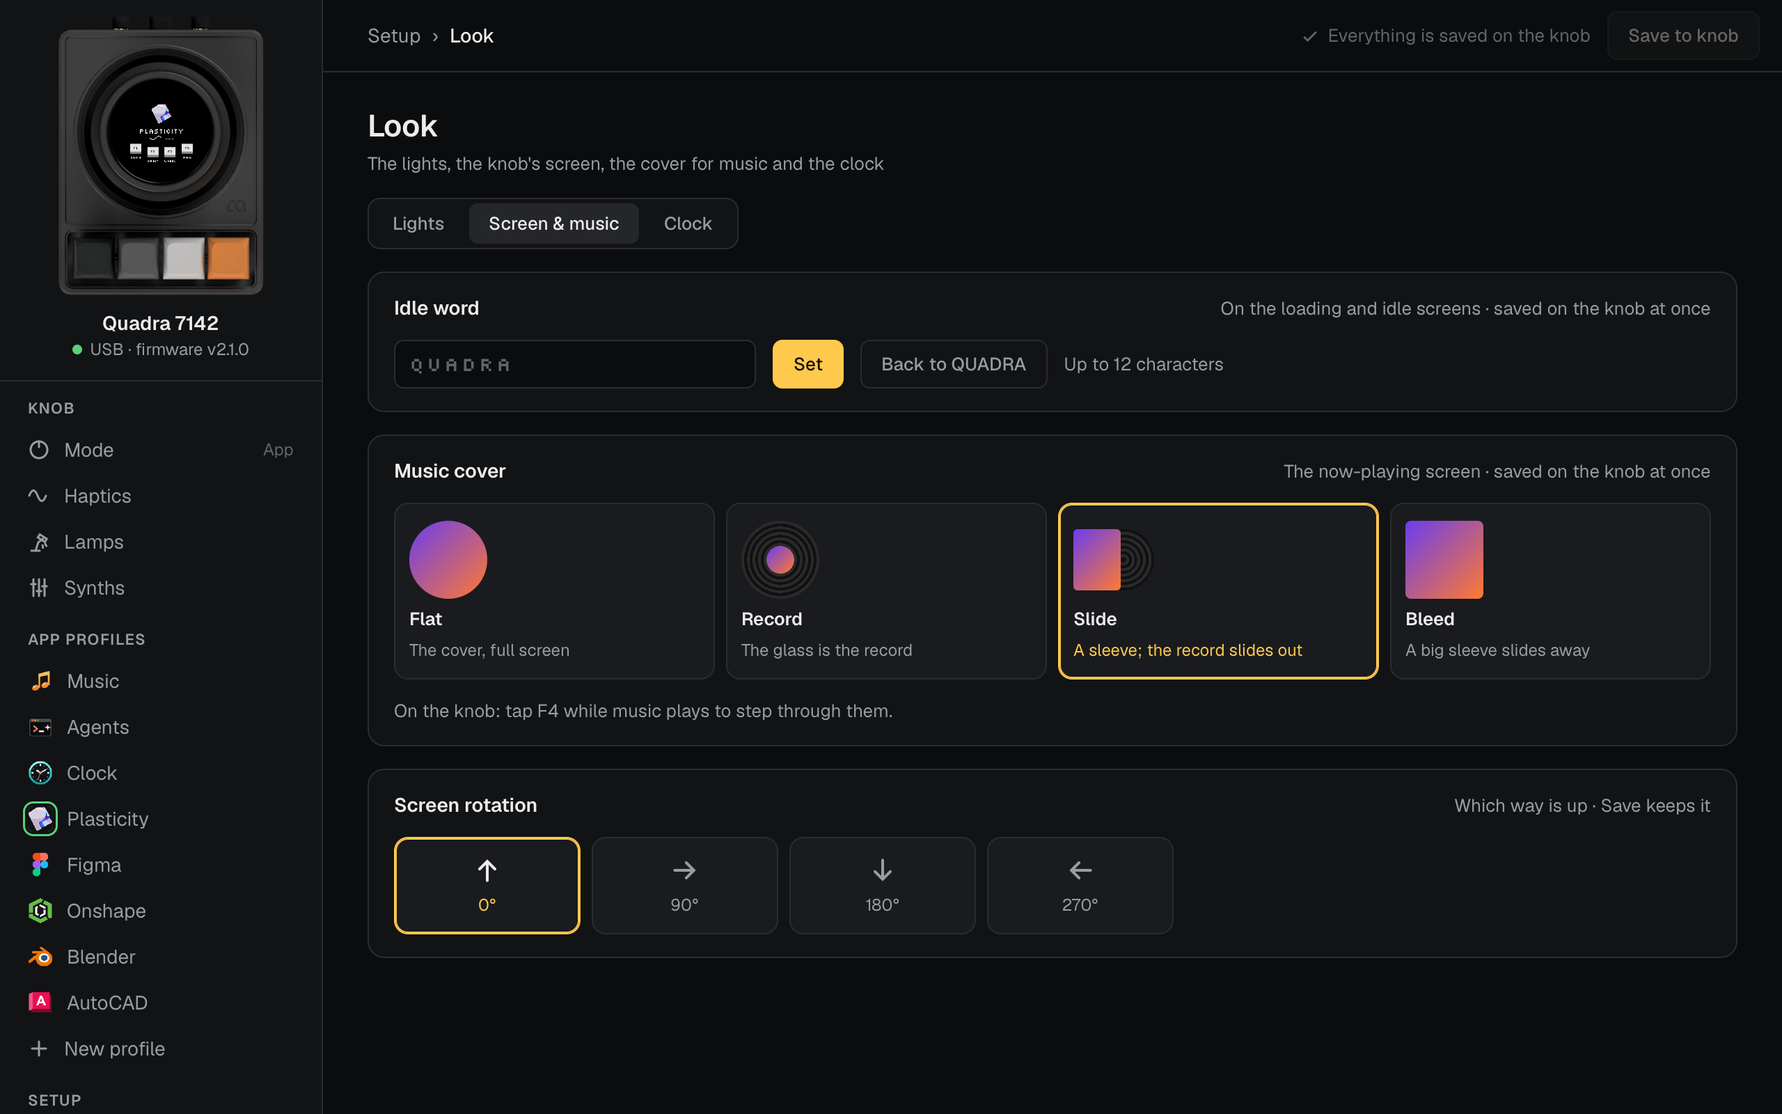
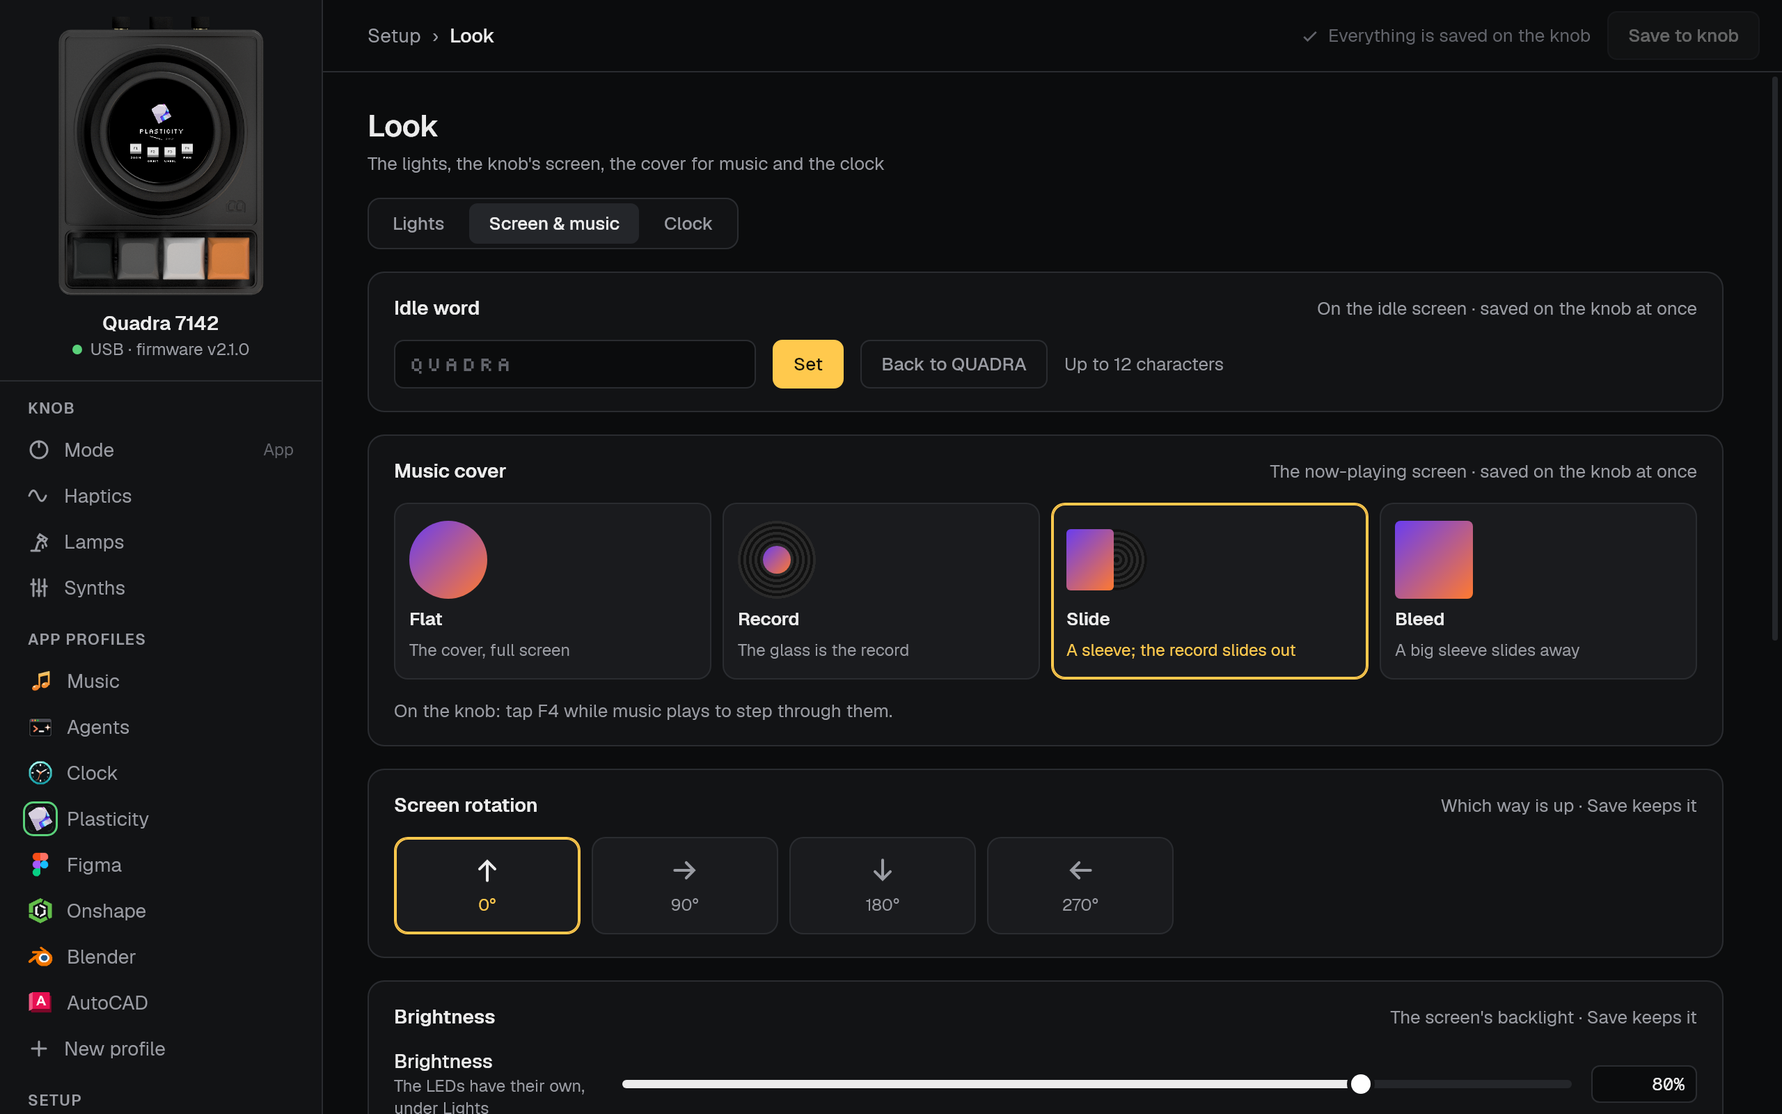
Docs: the screensaver and sleep hours
The README's settings table, idle screen and LED sections, a Sleep hours
section with how the knob falls back without the local time, and quadra.py
idle; the user guide's Look page; FIRMWARE.md's display section (and the
stale claim that the first key press only wakes the screen goes), the LED
levels, extensions v13 and the NVS blob. New pictures of DISPLAY, SLEEP and
the clock screensaver replace the old rotation screen, and the companion's
screenshots.

diff --git a/README.md b/README.md
@@ -140,7 +140,10 @@ shows, at 2× scale.
   in any orientation.
 - **Idle screen.** Arcade attract mode: the active app's icon (or the QUADRA wordmark, or a
   word of your own) jumps around or explodes onto the screen with squash and stretch, dust,
-  debris and sparkles, in that app's colours. A routine is picked at random each time.
+  debris and sparkles, in that app's colours. A routine is picked at random each time. Or the
+  screensaver shows the clock, what's playing, or nothing, after a delay you choose.
+- **Sleep hours.** At night the screen and every LED go dark a little after the screensaver
+  starts; a turn or a key wakes the knob, at full brightness or a dim night level.
 - **LEDs in the app's colours.** A 60-LED ring around the knob and two LEDs under each key:
   a dim gradient at rest, a spot that follows the knob and pulses on every detent, the
   command wheel's segments, a flash at an end stop. The colour, effect and brightness can
@@ -241,7 +244,8 @@ opens the menu** instead. In HOME mode the knob and F1–F3 drive the lamps (see
   <img src="NanoDepsidf/docs/images/hid-home.png" width="180" alt="PROFILES carousel on HOME">
   <img src="NanoDepsidf/docs/images/hid-mouse.png" width="180" alt="PROFILES on MOUSE: the mode's haptic profile">
   <img src="NanoDepsidf/docs/images/profile-figma.png" width="180" alt="App profile carousel on FIGMA">
-  <img src="NanoDepsidf/docs/images/display-rotation.png" width="180" alt="Display rotation at 90 degrees">
+  <img src="NanoDepsidf/docs/images/display.png" width="180" alt="DISPLAY: rotation, brightness, the screensaver (CLOCK) and its delay, unsaved">
+  <img src="NanoDepsidf/docs/images/sleep.png" width="180" alt="SLEEP: on, from 23:00 to 07:00, dark 30 s in, woken dim">
   <img src="NanoDepsidf/docs/images/lights.png" width="180" alt="LIGHTS: a custom blue, editing EFFECT (SPIN); the rim mirrors the LED ring">
   <img src="NanoDepsidf/docs/images/sysinfo-power.png" width="180" alt="SYS INFO: estimated power draw against the USB contract">
   <img src="NanoDepsidf/docs/images/sysinfo-cpu.png" width="180" alt="SYS INFO: core load and control-loop timing">
@@ -252,13 +256,15 @@ opens the menu** instead. In HOME mode the knob and F1–F3 drive the lamps (see
 |---|---|
 | **PROFILES** | APP, HOME, KEYBOARD, MOUSE or MIDI. With APP, F1 opens **PROFILE**, a carousel of the installed app profiles. With KEYBOARD or MOUSE, F1 moves to **HAPTIC**, the haptic profile the knob uses in that mode. With MIDI, F1 moves to the channel, then to **SYNTH**, the synth profile. |
 | **HAPTICS** | STEPS picks a haptic profile: WIDE, COARSE, MEDIUM or FINE (8, 12, 24 or 36 detents per turn) or SMOOTH (no steps). Each profile keeps its own FEEL (SAW or SINE; SMOOTH is always VISCOSE), SNAP (Kp), DAMP (Kd), SHAPE (how late and steep SAW's pull rises), AMP and PITCH, within safe limits for that profile and feel. Each profile also keeps its own CLICK, the wave the motor plays: nine to choose from: sine or square, 2 or 4 ms, a C for a falling pitch, and TICK (short and high), TING (a small bell) and TAP (a knock of noise), each drawn as it sounds. A step one way clicks a little higher than a step the other way; a list at its end answers with a low knock; saving plays two rising notes, cancelling an edit one low note. An item that doesn't apply in the current feel shows `--`. The menu always turns with MEDIUM's feel, whatever mode you opened it from; this screen turns with the profile it shows, so you feel what you tune. Only while you pick STEPS (after F1) does it stay on MEDIUM, so the profiles go by in even steps; the one you confirm takes over. Changes are live while you tune; F2 saves; holding F2 for 1.5 s puts the shown profile back to factory. |
-| **DISPLAY** | ROTATION: 0°, 90°, 180° or 270°. The screen turns live while you turn the knob. |
+| **DISPLAY** | ROTATION: 0°, 90°, 180° or 270°; the screen turns live. BRIGHT: the screen's backlight, 10–100%. SAVER: what the [screensaver](#idle-screen) shows: AUTO, ICON, BOUNCE, CLOCK, MUSIC, BLANK or NEVER. AFTER: how long without a turn or a key before it starts, 5 s to 10 min. |
+| **SLEEP** | The [sleep hours](#sleep-hours). SLEEP: ON or OFF (NO TIME while the knob doesn't know the local time). FROM and TO, in 15-minute steps; the hours can run past midnight. DARK IN: how long the screensaver runs before the screen and LEDs go dark, from NOW to 10 min. WAKE: NORMAL or DIM, the brightness of a knob woken in the sleep hours. |
 | **LIGHTS** | The LED look. COLOR: APP (the profile's colours, or the album cover's while music plays) or CUSTOM, with HUE and SAT. EFFECT at rest: GRADIENT, SOLID, BREATHE, SPIN, RAINBOW or OFF, with SPEED for the moving ones. LEVEL: brightness, 10–200% of the standard level. The screen's rim mirrors the ring while you tune. |
 | **BOOT MODE** | USB MODE: HID (the normal composite device) or SERIAL (for flashing). Applies after a restart. |
 | **DEVICE** | **SYS INFO**: live readings on five pages, turn to move between them, F1 resets the peaks and counters. POWER: estimated draw (motor, LEDs, board) against what the USB-C / PD chip negotiated at boot. HEAT: chip temperature, motor coil current and heat. CPU: load per core, control-loop rate, spikes per second, worst compute time, jitter, missed ticks. LOOP: where one control iteration's time goes (input, sensor, force, motor), plus sensor CRC errors. SYSTEM: free RAM, dropped HID reports, uptime. **BINDINGS**: MAC or PC. Profiles are written with Mac shortcuts; on PC every Cmd is sent as Ctrl (Option is Alt on both). Switches as you turn, F2 saves. **RECALIBRATE**: F1, then F1 again, restarts and recalibrates the motor (see [First calibration](#first-calibration)). **CLICK**: the AXIS the motor's sounds play on (D rings the housing, Q shakes the knob). Turn to switch and hear it, F2 saves. The wave is each haptic profile's own (HAPTICS → CLICK). **SOUND CAL**: finds the pitch the knob rings at, for the clicks the motor plays. Hands off the knob, F1 to start: it plays a sweep two ways and asks which was louder (F1 first, F3 second), then asks about each tone (F1 heard, F3 not heard, F2 again). F4 stops it. |
 
-Screens with a single choice (PROFILES, DISPLAY, BOOT MODE, BINDINGS) change the value directly as you
-turn. LIGHTS, like HAPTICS, is live while you tune and kept by F2. Leaving without F2 puts the saved value back. Saved settings live in NVS flash and
+Screens with a single choice (PROFILES, BOOT MODE, BINDINGS) change the value directly as you
+turn. DISPLAY, SLEEP and LIGHTS list their fields: turning changes the one picked, F1 moves to
+the next. Like HAPTICS, they are live while you tune and kept by F2. Leaving without F2 puts the saved value back. Saved settings live in NVS flash and
 survive power cycles.
 
 ### APP mode and profiles
@@ -796,8 +802,26 @@ and spin-jump. At the top they split with a flash, circle each other once and co
 by side (the motor knocks, then plays the startup chime), and POWERED BY ESP32-S3 types in
 below. The knob is live from about 1 s in.
 
-After 12 s without input the screen goes into an arcade-style attract mode: the active app's
-48×48 icon, or the QUADRA wordmark outside APP mode, performs **Jump**. It never leaves the
+After a while without input (15 s unless you change **DISPLAY → AFTER**, from 5 s to 10 min)
+the screensaver starts. **DISPLAY → SAVER**, or **Look › Screen & music** in the companion,
+picks what it shows:
+
+<p>
+  <img src="NanoDepsidf/docs/images/saver-clock.png" width="200" alt="The CLOCK screensaver: 23:47 in large grey digits, WED 8 OCT under it">
+</p>
+
+| SAVER | Shows |
+|---|---|
+| AUTO | What's playing (MUSIC below) while a track plays, else CLOCK while the knob knows the local time, else ICON. The standard choice. |
+| ICON | The arcade attract mode below |
+| BOUNCE | The icon rattling around inside the glass over parallax stars |
+| CLOCK | The local time, large and grey, with the date; it moves a few pixels each minute |
+| MUSIC | The cover, title and artist of the track playing (from the Mac service), falling back like AUTO when nothing plays |
+| BLANK | Nothing: the backlight goes off |
+| NEVER | No screensaver; the screen stays as it is |
+
+ICON is an arcade-style attract mode: the active app's 48×48 icon, or the QUADRA wordmark
+outside APP mode, performs **Jump**. It never leaves the
 screen: two small hops, a crouch and a big jump with afterimages, a hard landing (squash,
 screen shake, dust, debris), a gleam, hops left and right, a spinning jump, then it breathes
 with sparkles around it. While music plays (MUSIC) or the clock is up (CLOCK), those stay on
@@ -806,9 +830,8 @@ the synth maker's logo (KORG or Roland), in white at 3×. In AGENTS the dashboar
 while any agent is working or asking; once every agent is idle or waiting for your next
 prompt, the attract mode starts as usual.
 
-A second routine, **Bounce** (the icon rattling around inside the glass like a pinball), is
-built but switched off. Set `ROUTINE_ON[ATTRACT_BOUNCE]` to `true` in `src/ui_fx.cpp` to put
-it back; the two then take turns. (Boom, an explosion, was removed in October 2026.)
+The second routine, **Bounce** (the icon rattling around inside the glass like a pinball), is
+the BOUNCE screensaver. (Boom, an explosion, was removed in October 2026.)
 
 Everything is whole pixels; squash and stretch scale the icon nearest-neighbour. Accents
 (sparks, sparkles) use the app's colours: Figma's purple, blue and
@@ -823,6 +846,23 @@ does its job too: no second press.
 **Your own word.** An idle word of up to 12 characters, set from the companion app (**Look ›
 Screen & music**) or with `quadra.py text`, replaces QUADRA in the idle
 animation. With an app icon up, the word and the icon take turns, one routine each.
+
+#### Sleep hours
+
+**SLEEP** in the menu, or **Look › Screen & music** in the companion, sets hours when the knob
+should be dark, 23:00 to 07:00 to begin with. In those hours:
+- The screensaver starts after **AFTER** over any screen. Nothing holds it off: not music, the
+  clock, a notification or a busy agent.
+- **DARK IN** later the backlight and every LED go off, notifications included.
+- Only a turn or a key wakes it (the key does its job too); a notification, a new track or an
+  agent waits until then. With **WAKE** = DIM the screen comes back at 15% and the LEDs at a
+  third of their level; the screensaver and dark follow again once it's left alone.
+
+The hours need the knob's local time: the zone comes from the [Mac service](#the-mac-service),
+which sends it every few minutes; WiFi's time server alone only gives UTC. The knob has no
+clock battery, so if it loses the time (a power cut), hasn't had it confirmed for a day, or
+never had the zone, the sleep hours pause and the knob behaves as by day: a dark screen comes
+back on. The menu shows NO TIME and the companion says so until the service sends it again.
 
 ### LEDs
 
@@ -840,6 +880,8 @@ of that, and **LIGHTS** also sets a custom colour and a different effect at rest
 | End stop | A short white flash of the whole ring | — |
 | Menu | Amber | Amber |
 | Idle | The gradient drifts slowly and dims | Dimmed |
+| Sleep hours, dark | Off | Off |
+| Sleep hours, woken with WAKE = DIM | A third of the level | A third of the level |
 | An agent's request | Breathes in the agent's colour; one arc per waiting agent; fills green while F1 is held | — |
 | MUSIC, turning the knob | The volume, as an arc in the cover's colour | — |
 | CLOCK with LED SECONDS | A seconds hand | — |
@@ -1048,7 +1090,7 @@ NanoDepsidf/tools/.venv/bin/python NanoDepsidf/tools/quadra.py hello   # for exa
 | `tools/send_icon.py` | Uploads a 48×48 image to the device over the vendor HID interface (`icon.png`, `--test-pattern`, `--clear`, `--list`, `--dry-run --preview out.png`). |
 | `tools/gen_icon_c.py` | Converts a PNG into an RGB565 C array for a profile icon (24×24 status bar, 48×48 profile screen and idle screen). |
 | `tools/gen_silkscreen_font.py` | Regenerates the pixel fonts in `src/fonts/` from Silkscreen. |
-| `tools/quadra.py` | The knob from the command line, over USB: `hello`, `profile [name]`, `text WORD` (idle word), `lights`, `clock`, `wifi`, `cover image.png`, `notify` (a test request), `reboot [--serial]`, `flash [firmware.bin] [--partitions table.bin]` (no keys needed), `loop` (the control loop's health), `wifi-check` (tests the WiFi link's security against this knob), `home import` / `home list` (HOME's lamps, see [HOME](#home-xiaomi-lamps)) and `pd [--write-5v]` (the USB-PD chip's stored settings: checks them, or makes them 5 V 3 A only, for good; saves a copy to `~/.quadra/` first). |
+| `tools/quadra.py` | The knob from the command line, over USB: `hello`, `profile [name]`, `text WORD` (idle word), `lights`, `idle` (brightness, screensaver, sleep hours), `clock`, `wifi`, `cover image.png`, `notify` (a test request), `reboot [--serial]`, `flash [firmware.bin] [--partitions table.bin]` (no keys needed), `loop` (the control loop's health), `wifi-check` (tests the WiFi link's security against this knob), `home import` / `home list` (HOME's lamps, see [HOME](#home-xiaomi-lamps)) and `pd [--write-5v]` (the USB-PD chip's stored settings: checks them, or makes them 5 V 3 A only, for good; saves a copy to `~/.quadra/` first). |
 | `tools/mac/` | The optional [Mac service](#the-mac-service): now playing, agent requests, the local time. |
 | `tools/midi_monitor.html` | A MIDI monitor for the browser (Chrome, Edge or Firefox; Safari has no Web MIDI): open the file, Connect MIDI, and every message from the knob in [MIDI](#midi) mode is decoded with the minilogue xd's map, 10-bit values and programs included; it also sends values back to test pick-up. |
 | `tools/tz_test/`, `tools/net_pend_test/` | Host checks for CLOCK's time-zone rules (against Python's zoneinfo) and for how the WiFi link queues handshakes. |

diff --git a/NanoDepsidf/docs/FIRMWARE.md b/NanoDepsidf/docs/FIRMWARE.md
@@ -704,6 +704,7 @@ and the companion shows a feature only from the version that has it:
 | 10 | `NET CONTROLS` and `EXT_TAG_HID`: with no USB host, the HID reports go to the WiFi client that asked (the companion app types and scrolls for the knob) |
 | 11 | `HOME` and `EXT_TAG_HOME`: HOME's lamps, imported over USB, their state over any link (section 8.4). The first command of the second range, 0x30-0x3F: 0x20-0x2F is full |
 | 12 | `HOME EDIT` (rename, icon, order, remove; any link) and the lamp's icon, address and dialect in `EXT_TAG_HOME`; `SYNTH` and `EXT_TAG_SYNTH`: the synth list, a synth's JSON (read in 48-byte pieces: offset 0 alone first, the knob writes the JSON then; the rest may be asked for several at a time), upload, save / revert / remove, the midi task's status, and go to a parameter (section 8.5) |
+| 13 | `IDLE` and `EXT_TAG_IDLE`: the screen's brightness, the screensaver and the sleep hours (section 12), live, with SAVE to store them; the reply says whether they're unsaved, whether the knob trusts its local time, and whether it's in the sleep hours or dark now. `HOST_TAG_STATE [14]` reports 2 while dark |
 
 Work that touches NVS or decodes images runs in the usb task (`ext_link_poll`), not in
 TinyUSB's callback. Keys from `INPUT` are OR-ed into the real ones in the control loop and let
@@ -900,8 +901,36 @@ frames a second. Once the record has stopped, the screen is drawn only on a chan
 shows the frame rate and the draw and push times every 2 s while it moves. The
 motion is a function of the time since the last play or pause, like every other animation. A
 tap of F4 on the now-playing screen (no turn, released within 0.6 s, before the menu's long
-press) picks the next style; the usb task stores it (`user_prefs_poll`). The idle screen starts after 12 seconds without input (in AGENTS, not while an agent is working or asking);
-the first key press only wakes the screen and is not passed on.
+press) picks the next style; the usb task stores it (`user_prefs_poll`).
+
+**The screensaver and the sleep hours** (`screen_t` in `user_prefs.h`, stored as one NVS blob,
+`screen`; set from DISPLAY and SLEEP, or `EXT_CMD_IDLE`). `update_ui()` keeps three states from
+the time since the last activity:
+- **Awake.** Any change counts as activity: a turn, a key, the menu, a notification, a new
+  track, a mode or icon change. By day the screensaver is also held off while music plays, the
+  CLOCK app is up, HOME scans, or an AGENTS row is working or asking.
+- **Screensaver** (`V_ATTRACT`) after DISPLAY → AFTER. By day only over the Main Screen. Its
+  picture is resolved each tick (`saver_resolve`): AUTO and MUSIC show the now-playing cover
+  while a track plays, else the clock; CLOCK needs `clock_trusted()`, else the icon. ICON and
+  BOUNCE loop at about 30 fps; CLOCK redraws once a minute, MUSIC on a new track; BLANK turns the
+  backlight off and draws nothing.
+- **Dark** (`V_DARK`), only in the sleep hours, SLEEP → DARK IN after the screensaver started:
+  backlight 0, nothing drawn, and `led_task.c` flushes every LED at 0, notifications included.
+
+In the sleep hours nothing holds the screensaver off and only *input* (a turn, a key, the menu,
+or the companion's `EXT_CMD_INPUT`) counts as activity, over any screen. Waking at night with
+WAKE = DIM puts the backlight at 15% and the LEDs at 0.3×. The key that wakes the screen does
+its normal job as well. `ui_state_set_screensaver()` publishes 0 / 1 / 2 (off, on, dark) for the
+LEDs and the companion (`HOST_TAG_STATE [14]`).
+
+Whether the sleep hours apply is decided once a second (`screen_sleep_now()`; it reads the
+clock), and only while `clock_trusted()` holds. That needs the time set since boot, a sync
+(SNTP or `EXT_CMD_TIME`) in the last 24 h, and LOCAL's zone sent by a host at some point.
+Otherwise the knob behaves as by day, and a dark screen comes back on. The knob has no clock
+battery, so a power cut loses the time, and SNTP alone only gives UTC.
+
+The backlight follows DISPLAY → BRIGHT (10–100%) live; `backlight_set_percent()` only touches
+the LEDC on a change.
 
 The same UI code compiles on the host: `tools/ui_preview/run.sh` renders every screen to a PNG
 without hardware. How the pixel art is drawn, and the rules for changing it, are in
@@ -918,7 +947,8 @@ the keys. Colours follow the active profile (`app_colors.c`).
 - End stop: a short white flash.
 
 Brightness is 20% at the standard level; LIGHTS → LEVEL scales it from 10% to 200% of that
-(`user_prefs.c`, which also holds the colour and the effect at rest). The whole frame is then
+(`user_prefs.c`, which also holds the colour and the effect at rest). The screen's dark state in
+the sleep hours sets it to 0, and a DIM wake in them to 0.3× (section 12). The whole frame is then
 scaled so the estimated draw stays under the LED budget: what the USB port offers (`pd_status`) less 400 mA for the board and the motor,
 between 60 and 250 mA. That is 100 mA on a plain 500 mA port and 250 mA from 1.5 A up. With
 WiFi on, the radio's ~100 mA comes off it. A strip is sent only when its data changed.
@@ -960,7 +990,8 @@ did the same things.
 | `coredump` | 64 KB | Crash dumps |
 
 The firmware image is about 1.32 MB (78% of a slot), most of the growth being WiFi. NVS also
-holds the namespaces `user_prefs` (idle word, LIGHTS, cover style), `clock`, `home` (HOME's lamps
+holds the namespaces `user_prefs` (idle word, LIGHTS, cover style, the screen: brightness,
+screensaver, sleep hours), `clock`, `home` (HOME's lamps
 and their tokens) and `net` (WiFi network,
 password and pairing key), in plain text: flash encryption is off.
 

diff --git a/companion/docs/COMPANION.md b/companion/docs/COMPANION.md
@@ -430,6 +430,11 @@ the knob's own Lights screen). Changes made on the knob show up here within a se
 | **Idle word** | The word on the idle screen, up to 12 characters (lowercase draws as small capitals). **Back to QUADRA** restores it. Stored on the knob as soon as you press **Set** |
 | **Music cover** | How the Music app shows the cover while something plays: **Flat** (full screen), **Record** (the glass is a spinning record, the cover its label), **Slide** (a sleeve the record slides out of) or **Bleed** (a big sleeve that slides off the glass). Stored on the knob at once. On the knob, a tap of F4 on the now-playing screen steps through them (extensions v8 and later) |
 | **Screen rotation** | 0, 90, 180 or 270 degrees. Kept by Save to knob |
+| **Brightness** | The screen's backlight, 10 to 100%. Kept by Save to knob (extensions v13 and later, as are the next two) |
+| **Screensaver** | What the knob shows when it's left alone: **Auto** (what's playing, else the clock, else the icon), **Icon**, **Bounce**, **Clock**, **Music**, **Blank** (the screen off) or **Never**; and **Starts after**, 5 s to 10 min without a turn or a key. Kept by Save to knob |
+| **Sleep hours** | **Sleep** on or off; **From** and **To** (they can run past midnight); **Goes dark**, how long into the screensaver the screen and LEDs turn off; and **Woken**, **Normal** or **Dim**. In the sleep hours only a turn or a key wakes the knob. They need the knob to know the local time, which the Quadra service on the computer sends: without it they pause, the knob stays on as by day, and this box says so. Kept by Save to knob |
+
+<img src="app-look-sleep.png" width="720" alt="Look, Screen & music, further down: brightness, the seven screensaver choices, and sleep hours from 23:00 to 07:00, dark 30 s into the screensaver, woken dim">
 
 <img src="app-look-clock.png" width="720" alt="Look, Clock: 24-hour, seconds and date on; local time; Tokyo and New York as world zones">
 
